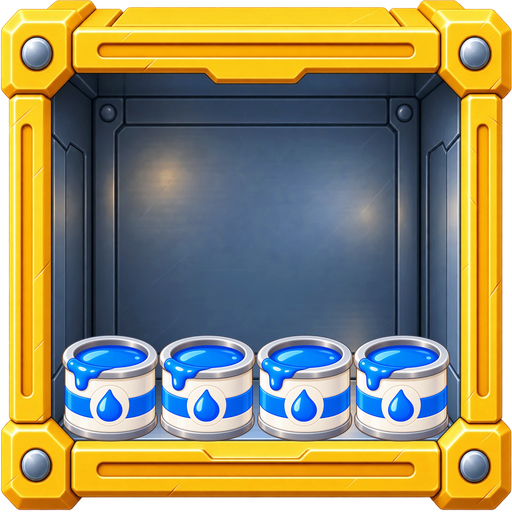
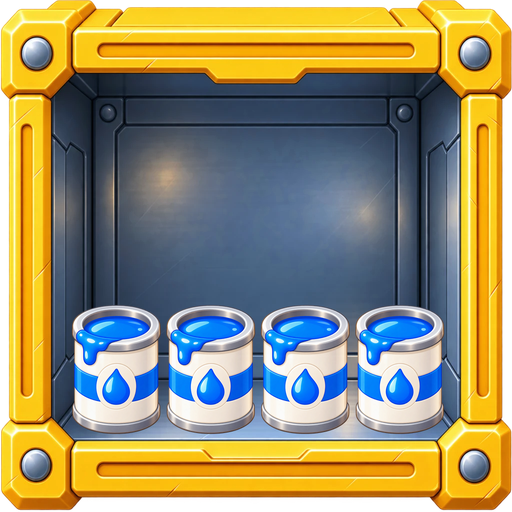
PaintCanBox: use taller can art, symmetric knock-down order
Claude-Session: https://claude.ai/code/session_011SM6jAozhV5f6ndTXzk3GM

Changed region(s): [[0.125, 0.5938, 0.9062, 0.875]]

diff --git a/Assets/_Project/Scripts/Grid/Board/PaintCanBoxView.cs b/Assets/_Project/Scripts/Grid/Board/PaintCanBoxView.cs
@@ -21,8 +21,9 @@ public sealed class PaintCanBoxView : MonoBehaviour
     private const float RowOverlap = 0.78f;   // üst sıra alttakinin ağzına oturur
     private static readonly int[] RowCounts = { 4, 3, 2 };
 
-    // Düşme sırası (slot index'i, alt sıradan yukarı soldan sağa): önce tepe, en son alt sıranın ortası.
-    private static readonly int[] RemovalOrder = { 8, 7, 6, 4, 5, 3, 0, 2, 1 };
+    // Düşme sırası (slot index'i, alt sıradan yukarı soldan sağa): önce tepe, sonra orta sıranın ortası
+    // (kalan iki kutu simetrik dursun), en son alt sıranın ortası.
+    private static readonly int[] RemovalOrder = { 8, 7, 5, 6, 4, 3, 0, 2, 1 };
 
     private const float WobbleSeconds = 0.45f;
     private const float WobbleDegrees = 7f;
